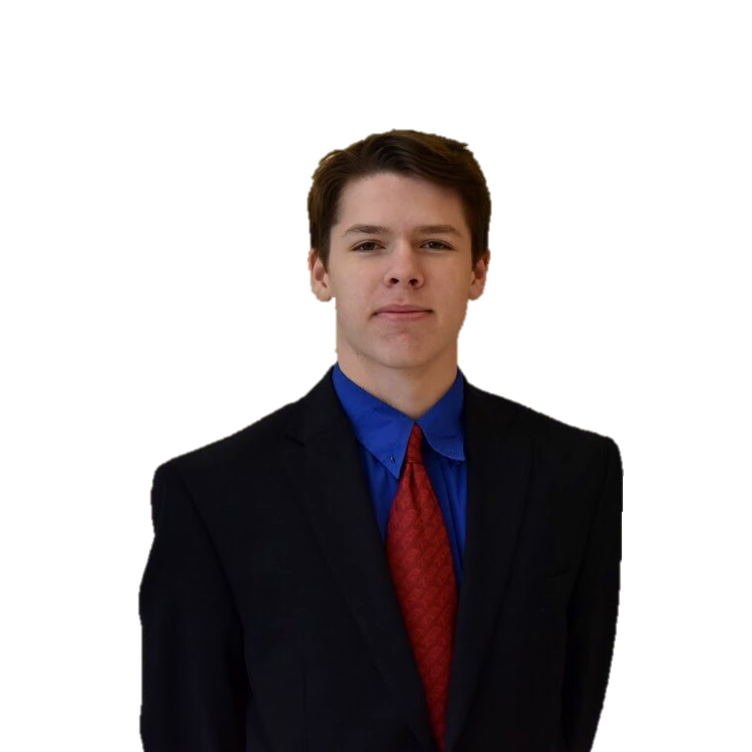
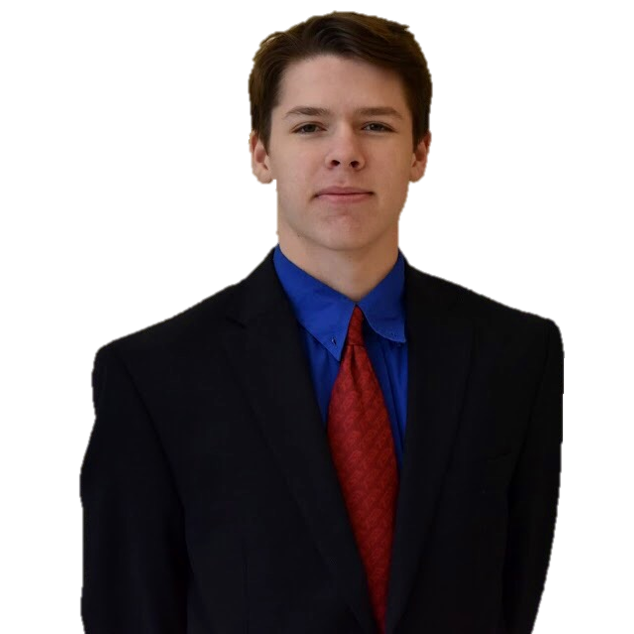
Prevent pic overlaying menu

Changed region(s): [[0.1199, 0.0, 0.8991, 1.0]]

diff --git a/index.html b/index.html
@@ -111,7 +111,7 @@
 				</div>
 		    </div>
 		    <div class="col-sm-6" style="position:relative; padding:0 100px 0 50px">
-		    	<image class="bigMePic" style="position:absolute; bottom:0;" width="80%" src="img/ProfilePicSquareTransparent.png"/>
+		    	<image class="bigMePic" style="position:absolute; bottom:0;" height="100%" src="img/ProfilePicSquareTransparent.png"/>
 		    </div>
 		</div>
 		<div class="row bg-light" style="padding:0 0 0 0;">
